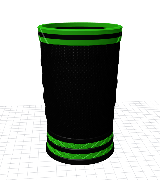
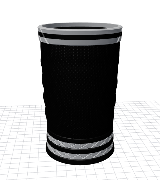
fix: padrão preto e branco nos três copos

diff --git a/electron/src/renderer/copos-tela.js b/electron/src/renderer/copos-tela.js
@@ -1,4 +1,4 @@
-import { CATALOGO_COPOS, lerPacoteCopo, aplicarCores } from './modelos/copos.js';
+import { CATALOGO_COPOS, lerPacoteCopo, aplicarCores, coresIniciais } from './modelos/copos.js';
 import { colorir3mf, gerarStlCopo } from './modelos/copos-exportar.js';
 import { criarPrevia } from './modelos/previa3d.js';
 import { abridorDe, registrarAbridor, salvarEmMeusModelos } from './modelos-ui.js';
@@ -33,7 +33,7 @@ async function carregar(novo, salvas) {
     if (!r.ok) throw Error(r.erro);
     const anterior = pacote;
     pacote = lerPacoteCopo(r.dados);
-    cores = aplicarCores(pacote.partes, salvas ?? []).map(p => p.cor);
+    cores = coresIniciais(pacote.partes, salvas ?? []);
     previa ??= criarPrevia($('cp-3d'), { frente: true, gradeSuave: true });
     previa.mostrar(aplicarCores(pacote.partes, cores)); previa.enquadrar();
     anterior?.partes.forEach(p => p.geometria.dispose());
@@ -69,7 +69,7 @@ export function iniciarCopos() {
     const label = document.createElement('span'); label.textContent = modelo.nome; b.append(img, label);
     b.addEventListener('click', () => { if (!ocupado) { atual = null; carregar(modelo.id); } }); $('cp-catalogo').append(b);
   }
-  $('cp-restaurar').addEventListener('click', () => { if (!pacote || ocupado) return; cores = pacote.partes.map(p => p.cor); controles(); pintar(); });
+  $('cp-restaurar').addEventListener('click', () => { if (!pacote || ocupado) return; cores = coresIniciais(pacote.partes); controles(); pintar(); });
   $('cp-grade').addEventListener('change', () => previa?.mostrarGrade($('cp-grade').checked));
   $('cp-mais').addEventListener('click', () => previa?.zoom(0.85));
   $('cp-menos').addEventListener('click', () => previa?.zoom(1.18));

diff --git a/electron/tests/copos.test.js b/electron/tests/copos.test.js
@@ -1,6 +1,18 @@
 import { describe, it, expect } from "vitest";
-import { aplicarCores, lerPacoteCopo } from "../src/renderer/modelos/copos.js";
+import { aplicarCores, coresIniciais, lerPacoteCopo } from "../src/renderer/modelos/copos.js";
 describe("copos personalizados", () => {
+  it("começa em preto e branco independentemente das cores do arquivo de referência", () => {
+    for (const origem of [["#000000", "#ffffff"], ["#000000", "#39ff14"], ["#fec600", "#0056b8"]]) {
+      const partes = origem.map(cor => ({ cor }));
+      expect(coresIniciais(partes)).toEqual(["#000000", "#ffffff"]);
+      expect(partes.map(p => p.cor)).toEqual(origem);
+    }
+  });
+  it("preserva cores salvas e usa preto/branco para valores ausentes ou inválidos", () => {
+    const partes = [{ cor: "#000000" }, { cor: "#39ff14" }];
+    expect(coresIniciais(partes, ["#ff0000", "#0077ff"])).toEqual(["#ff0000", "#0077ff"]);
+    expect(coresIniciais(partes, ["inválida"])).toEqual(["#000000", "#ffffff"]);
+  });
   it("cada cor mantém sua geometria e seu slot ao ser editada", () => {
     const geometria = {};
     const partes = [{ cor: "#000000", geometria, slot: 1 }, { cor: "#ffffff", geometria: {}, slot: 2 }];

diff --git a/electron/src/renderer/index.html b/electron/src/renderer/index.html
@@ -1676,7 +1676,7 @@
         <aside class="copos-painel">
           <section><h2>Modelo</h2><div class="copos-catalogo" id="cp-catalogo"></div></section>
           <section><h2>Cores</h2><div class="copos-cores" id="cp-cores"></div></section>
-          <details><summary>Personalização</summary><label class="copos-campo">Nome do projeto<input id="cp-nome" maxlength="80" value="Copo 1" /></label><button type="button" id="cp-restaurar">Restaurar cores originais</button></details>
+          <details><summary>Personalização</summary><label class="copos-campo">Nome do projeto<input id="cp-nome" maxlength="80" value="Copo 1" /></label><button type="button" id="cp-restaurar">Restaurar preto e branco</button></details>
           <details><summary>Ajustes</summary><p>Encaixe para copo de alumínio</p><p>Ø interno 81,4 mm · altura 145 mm</p><label><input type="checkbox" id="cp-grade" checked /> Mostrar grade</label></details>
         </aside>
         <section class="copos-cena" aria-label="Prévia do copo">

diff --git a/electron/src/renderer/modelos/copos.js b/electron/src/renderer/modelos/copos.js
@@ -1,6 +1,8 @@
 import { BufferGeometry, Float32BufferAttribute } from "three";
 
 export const CATALOGO_COPOS = [{ id: 1, nome: "Copo 1" }, { id: 2, nome: "Copo 2" }, { id: 3, nome: "Copo 3" }];
+const CORES_PADRAO = ["#000000", "#ffffff"];
+export const coresIniciais = (partes, salvas = []) => partes.map((_p, i) => /^#[0-9a-f]{6}$/i.test(salvas[i]) ? salvas[i] : CORES_PADRAO[i % CORES_PADRAO.length]);
 export function lerPacoteCopo(bytes) {
   if (bytes.byteLength < 4) throw new Error("Arquivo do copo incompleto.");
   const view = new DataView(bytes.buffer, bytes.byteOffset, bytes.byteLength);

diff --git a/CONTEXTO.md b/CONTEXTO.md
@@ -312,3 +312,10 @@ Convertido o .gitignore de Windows-1252 para UTF-8 sem BOM: o acento de "reposit
 - Publicada [v0.37.0](https://github.com/LiLPedroca/ferramentas3D/releases/tag/v0.37.0), vinculada ao commit validado `9627beafdc144e4317444bc029c477ae80b557ea`, enviado para `origin/electron`.
[1 lines of base64/hex data omitted]
 - A publicação da 0.37.0 está concluída. Continuam pendentes apenas as conferências físicas e os modelos adiados descritos acima; a edição de texto/emblema dos novos modelos importados não foi implementada nesta versão.
+
+## Trabalho do Codex (10/11/2026) — padrão preto e branco
+
+- Por pedido do Pedro, os três copos passam a abrir com cores padrão preta/branca, independentemente das cores dos arquivos de referência. As escolhas dos projetos salvos continuam sendo restauradas. O botão “Restaurar preto e branco” usa o mesmo padrão.
+- As cores originais das referências permanecem armazenadas separadamente, para que a exportação 3MF possa remapear corretamente a pintura para as cores selecionadas. Nenhum arquivo original ou dado real foi alterado.
+- Logo oficial localizada em `Downloads/Criae3D logo oficial.svg`. O contexto dos scripts de Modelagem confirma sua finalidade: assinatura Criae3D no fundo do copo, integrada à base/pintura da primeira camada. O Pedro perguntou pela finalidade; não foi solicitada nova aplicação da logo nesta alteração.
[1 lines of base64/hex data omitted]
